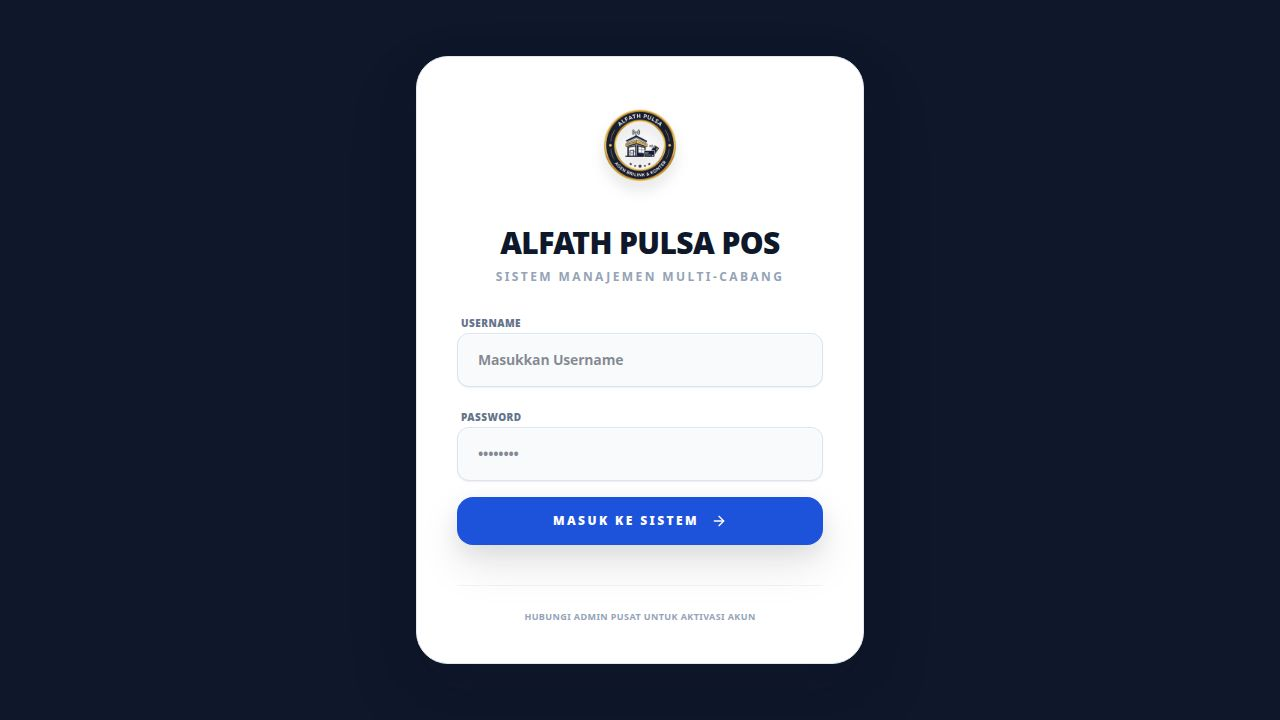
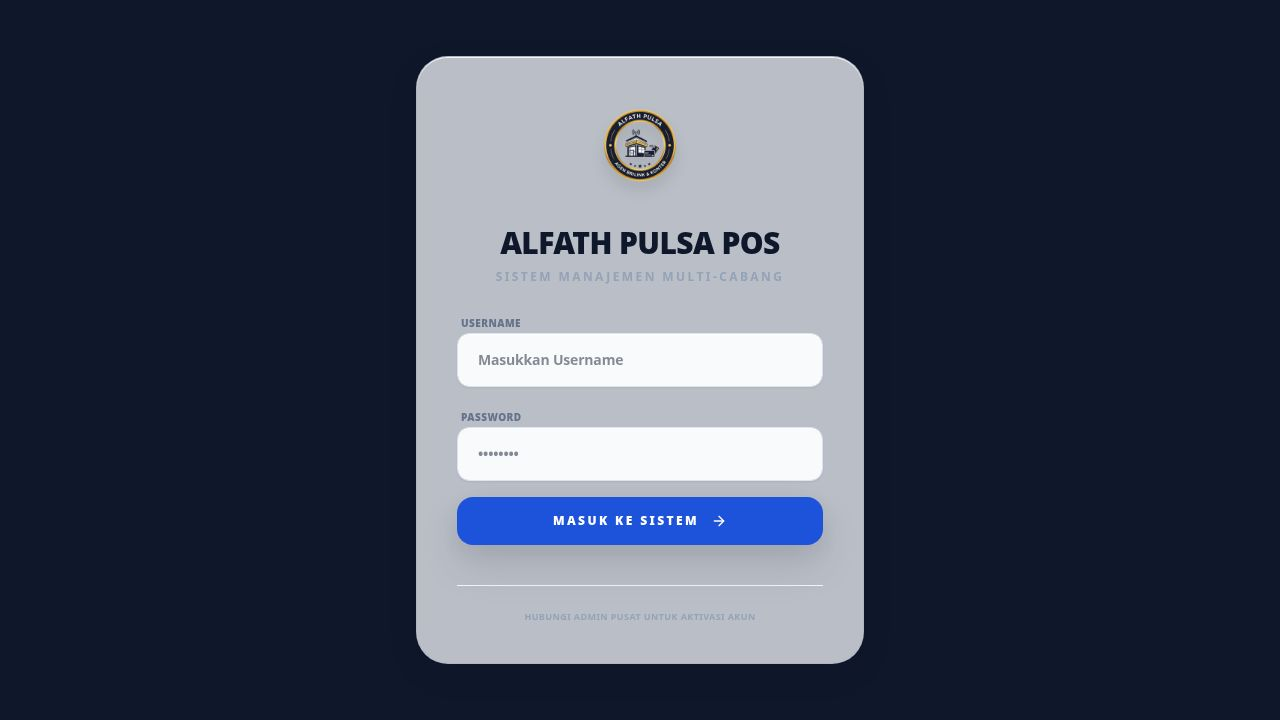
Update shift cards to a clean, sharp neumorphism style
Refactors shift card components in App.tsx to use neumorphic styling with custom hex colors and dark mode variants, adjusting wrapper radius to rounded-3xl.

Replit-Commit-Author: Agent
Replit-Commit-Session-Id: 0ef2e339-65ac-41f2-a454-49642406034f
Replit-Commit-Checkpoint-Type: full_checkpoint
Replit-Commit-Event-Id: 83ff027e-ddd6-46e2-ab39-6e0ba295d365
Replit-Commit-Screenshot-Url: https://storage.googleapis.com/screenshot-production-us-central1/b2bceef8-07ee-4861-b106-7da2ebaa9869/0ef2e339-65ac-41f2-a454-49642406034f/GY9sNpJ
Replit-Helium-Checkpoint-Created: true

Changed region(s): [[0.3125, 0.0611, 0.6875, 0.9472]]

diff --git a/artifacts/alfath-pos/src/App.tsx b/artifacts/alfath-pos/src/App.tsx
@@ -3593,19 +3593,19 @@ export default function App() {
                           {[
                             {
                               label: "Shift Hari Ini", date: new Date(),
-                              card: "bg-gradient-to-br from-sky-50 via-blue-100 to-indigo-100 border-2 border-blue-300 shadow-lg shadow-blue-200/50 dark:from-blue-900/50 dark:via-blue-900/40 dark:to-indigo-900/40 dark:border-blue-600 dark:shadow-none",
-                              blob: "bg-blue-300/50 dark:bg-blue-500/20",
-                              labelColor: "text-blue-700 dark:text-blue-300",
-                              amount: "text-blue-900 dark:text-blue-50",
-                              labaPill: "bg-emerald-500/15 text-emerald-700 dark:bg-emerald-400/20 dark:text-emerald-300",
+                              card: "bg-[#e0e5ec] shadow-[7px_7px_16px_#b8c2d0,-7px_-7px_16px_#ffffff] dark:bg-[#2a2d35] dark:shadow-[6px_6px_14px_#1e2027,-6px_-6px_14px_#363a44]",
+                              blob: "hidden",
+                              labelColor: "text-[#8794a8] dark:text-[#9aa3b5]",
+                              amount: "text-[#3d4859] dark:text-[#e2e6ed]",
+                              labaPill: "bg-[#e0e5ec] text-[#5b9279] shadow-[inset_3px_3px_6px_#b8c2d0,inset_-3px_-3px_6px_#ffffff] dark:bg-[#2a2d35] dark:text-[#74b894] dark:shadow-[inset_3px_3px_6px_#1e2027,inset_-3px_-3px_6px_#363a44]",
                             },
                             {
                               label: "Shift Kemarin", date: new Date(Date.now() - 86400000),
-                              card: "bg-gradient-to-br from-violet-50 via-fuchsia-100 to-purple-100 border-2 border-fuchsia-300 shadow-lg shadow-fuchsia-200/50 dark:from-fuchsia-900/40 dark:via-purple-900/40 dark:to-violet-900/40 dark:border-fuchsia-600 dark:shadow-none",
-                              blob: "bg-fuchsia-300/50 dark:bg-fuchsia-500/20",
-                              labelColor: "text-fuchsia-700 dark:text-fuchsia-300",
-                              amount: "text-fuchsia-900 dark:text-fuchsia-50",
-                              labaPill: "bg-emerald-500/15 text-emerald-700 dark:bg-emerald-400/20 dark:text-emerald-300",
+                              card: "bg-[#e0e5ec] shadow-[7px_7px_16px_#b8c2d0,-7px_-7px_16px_#ffffff] dark:bg-[#2a2d35] dark:shadow-[6px_6px_14px_#1e2027,-6px_-6px_14px_#363a44]",
+                              blob: "hidden",
+                              labelColor: "text-[#8794a8] dark:text-[#9aa3b5]",
+                              amount: "text-[#3d4859] dark:text-[#e2e6ed]",
+                              labaPill: "bg-[#e0e5ec] text-[#5b9279] shadow-[inset_3px_3px_6px_#b8c2d0,inset_-3px_-3px_6px_#ffffff] dark:bg-[#2a2d35] dark:text-[#74b894] dark:shadow-[inset_3px_3px_6px_#1e2027,inset_-3px_-3px_6px_#363a44]",
                             }
                           ].map((day) => {
                             const logical = getLogicalShiftDate(day.date);
@@ -3628,7 +3628,7 @@ export default function App() {
                             }, { revenue: 0, profit: 0 });
                             
                             return (
-                              <div key={day.label} className={`relative overflow-hidden p-4 rounded-2xl group ${day.card}`}>
+                              <div key={day.label} className={`relative overflow-hidden p-4 rounded-3xl group ${day.card}`}>
                                 <div className={`absolute top-0 right-0 w-20 h-20 rounded-bl-full transform translate-x-5 -translate-y-5 transition-transform group-hover:scale-110 ${day.blob}`}></div>
                                 <p className={`relative text-[9px] font-black ${day.labelColor} uppercase tracking-wider mb-1`}>{day.label}</p>
                                 <div className="relative flex flex-col items-start gap-1.5">